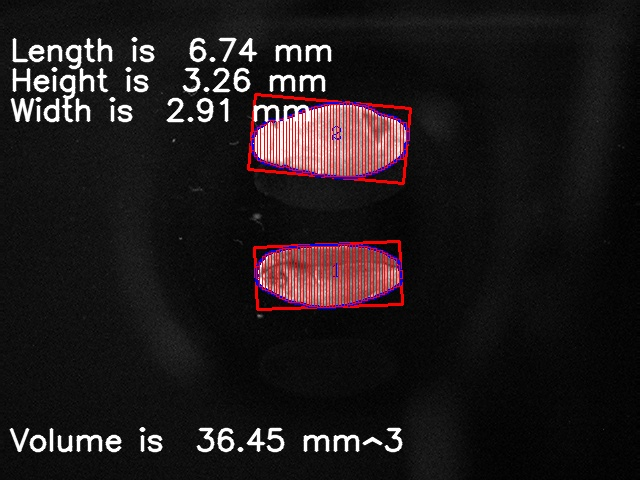
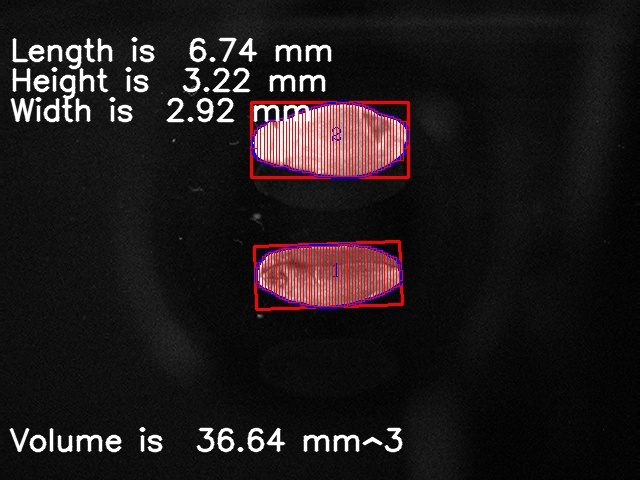
..

diff --git a/volume.py b/volume.py
@@ -2,7 +2,7 @@ import cv2 as cv
 import numpy as np
 import math
 
-delta = 5
+delta = 1
 
 
 ########################################################################
@@ -29,19 +29,34 @@ def drawSepLine(image, box, countour):
 ########################################################################
 # get left and right most point
 ########################################################################
-def getLeftRight(countour):
+def getLeftRight(contour):
     l_p = []
     r_p = []
-    xmin = np.amin(countour, axis=0)[0][0]
-    xmax = np.amax(countour, axis=0)[0][0]
-    for p in countour:
+    xmin = np.amin(contour, axis=0)[0][0]
+    xmax = np.amax(contour, axis=0)[0][0]
+    for p in contour:
         if p[0][0] < xmin + delta:
             l_p.append(p[0][1])
         if p[0][0] > xmax - delta:
             r_p.append(p[0][1])
     l = (xmin, int(sum(l_p) / len(l_p)))
     r = (xmax, int(sum(r_p) / len(r_p)))
-    return (l, r)
+    return l, r
+
+
+def newGetLeftRight(contour_dict):
+    listKey = list(contour_dict)
+    leftKey = listKey[0]
+    leftValue = contour_dict.get(leftKey)
+    left_Y = int(sum(leftValue) / len(leftValue))
+    leftPoint = (leftKey, left_Y)
+
+    rightKey = listKey[-1]
+    rightValue = contour_dict.get(rightKey)
+    right_Y = int(sum(rightValue) / len(rightValue))
+    rightPoint = (rightKey, right_Y)
+
+    return leftPoint, rightPoint
 
 
 ########################################################################
@@ -58,7 +73,7 @@ def getMidPoint(pointl, pointr, x):
 # drawLine function for the small slicing piece
 # based on the number of slice n
 ########################################################################
-def drawLine(image, box, countour, n):
+def drawLine(image, box, contour, n):
     x = int(np.amin(box, axis=0)[0])
     x_right = int(np.amax(box, axis=0)[0])
     # seg = int((np.amax(box, axis=0)[0]- x )/ n)
@@ -67,14 +82,14 @@ def drawLine(image, box, countour, n):
     seg = (x_right - x) / float(n)
     seg2 = seg / 2.0
     x = x + seg2
-    left_point, right_point = drawSepLine(image, box, countour)
+    left_point, right_point = drawSepLine(image, box, contour)
     y_mid = getMidPoint(left_point, right_point, x)
     recent_low = [y_mid]
     recent_high = [y_mid]
     while x <= x_right:
         low = []
         high = []
-        for pair in countour:
+        for pair in contour:
             if x - seg2 <= pair[0][0] <= x + seg2:
                 y_mid = getMidPoint(left_point, right_point, pair[0][0])
                 if pair[0][1] >= y_mid:
@@ -114,10 +129,24 @@ def drawLine(image, box, countour, n):
     return
 
 
+def suitForSlicing(list, midPoint):
+    hasUpper = False
+    hasLower = False
+    for ele in list:
+        if ele < midPoint:
+            hasUpper = True
+        else:
+            hasLower = True
+    if hasUpper is True and hasLower is True:
+        return True
+    else:
+        return False
+
+
 ########################################################################
 # get slicing rectangle box and return as np.array
 ########################################################################
-def slicingRect(box, countour, n):
+def slicingRect(box, contour, n):
     # start_time = time.time()
     rect_arr = []
     x = np.amin(box, axis=0)[0]
@@ -125,14 +154,19 @@ def slicingRect(box, countour, n):
     seg2 = seg / 2.0
     x = x + seg2
     # seg = 11.57601115
-    left_point, right_point = getLeftRight(countour)
+    left_point, right_point = getLeftRight(contour)
     y_mid = getMidPoint(left_point, right_point, x)
     recent_low = [y_mid]
     recent_high = [y_mid]
+
+    # contour = sorted(contour, key=lambda tup: tup[0][0])
+    # print(contour)
+    # print("**")
+
     for i in range(0, n):
         low = []
         high = []
-        for pair in countour:
+        for pair in contour:
             if x - seg2 <= pair[0][0] <= x + seg2:
                 y_mid = getMidPoint(left_point, right_point, pair[0][0])
                 if pair[0][1] >= y_mid:
@@ -151,8 +185,83 @@ def slicingRect(box, countour, n):
             recent_high.append(y_upper)
         rect_arr.append((seg, y_lower - y_upper))
         x = x + seg
+    print(rect_arr)
+    print("$$$$$$")
     return rect_arr
 
+
+
+def newSlicingRect(box, contour):
+    # start_time = time.time()
+    rect_list = []
+
+    contour = sorted(contour, key=lambda tup: tup[0][0])    # sort the contour, from left point to right point
+
+    # initial a dictionary
+    contour_dict = {}   # create dictionary to record the contour point with the same X value, X: [Y1, Y2}...
+    k = contour[0][0][0]
+    v = []
+    v.append(contour[0][0][1])
+    contour_dict[k] = v
+    contour = contour[1:]
+    for ele in contour:
+        key = ele[0][0]
+        value = ele[0][1]
+        if key in contour_dict:
+            listValue = contour_dict.get(key)
+            listValue.append(value)
+        else:
+            newValue = []
+            newValue.append(value)
+            contour_dict[key] = newValue
+
+    left_point, right_point = newGetLeftRight(contour_dict)
+    y_mid = getMidPoint(left_point, right_point, left_point[0])
+    recent_low = [y_mid]
+    recent_high = [y_mid]
+
+    print(left_point)
+    print(right_point)
+    print(y_mid)
+    print("****/")
+
+    startPoint_X = left_point[0]
+    endPoint_X = right_point[0]
+    print(contour_dict)
+    print("****/")
+
+    previousPoint_X = startPoint_X
+    previousPoint_listValue = contour_dict.get(previousPoint_X)
+    if len(previousPoint_listValue) > 1:
+        previousPoint_height = previousPoint_listValue[-1] - previousPoint_listValue[0]
+    else:
+        previousPoint_height = previousPoint_listValue[0]
+
+    current_X = startPoint_X + 1
+    while current_X <= endPoint_X:
+        if current_X in contour_dict:
+            current_listValue = contour_dict.get(current_X)
+            current_mid = getMidPoint(left_point, right_point, current_X)
+            if suitForSlicing(current_listValue, current_mid) or current_X == endPoint_X:
+                rec_width = current_X - previousPoint_X
+                if len(current_listValue) > 1:
+                    rec_height = current_listValue[-1] - current_listValue[0]
+                else:
+                    rec_height = current_listValue[0]
+
+                # ##########
+                diff = rec_height - previousPoint_height
+                previousPoint_height = rec_height
+                rec_height = rec_height - (diff / 2)
+
+                # #############
+
+                rect_list.append((rec_width, rec_height))
+                previousPoint_X = current_X
+        current_X += 1
+    print(rect_list)
+    print("**********")
+    return rect_list
 
 ########################################################################
 # calculate volume using slicing rectangle box
@@ -212,13 +321,13 @@ def procView(HSVlower, HSVupper, img, num_slice, ratio, display, auto=False):
         # draw the min area rect
         box = cv.boxPoints(rect)
         box = np.int0(box)
-        cv.drawContours(img, [box], 0, (0, 0, 255), 2)
+        cv.drawContours(img, [box], 0, (0, 0, 255), 2)  # red
         twoConts.append(cont)
         result.append(rect[1])
 
         count += 1
         cv.putText(img, str(count), (math.ceil(rect[0][0]), math.ceil(rect[0][1])), cv.FONT_HERSHEY_COMPLEX,
-                   0.6, (255, 0, 0), 1)
+                   0.6, (255, 0, 0), 1)  # blue
 
     x, y, w, h = cv.boundingRect(twoConts[0])
     box_mirror = np.array([(x, y), (x, y + h), (x + w, y), (x + w, y + h)])
@@ -241,7 +350,12 @@ def procView(HSVlower, HSVupper, img, num_slice, ratio, display, auto=False):
         width_pixel, length_m_pixel = length_m_pixel, width_pixel
     length_m = length_m_pixel / ratio
     width = width_pixel / ratio
-    rectArray_m = slicingRect(box_mirror, twoConts[0], num_slice)
+    # rectArray_m = slicingRect(box_mirror, twoConts[0], num_slice)
+    rectArray_m = newSlicingRect(box_mirror, twoConts[0])
+
+    #######################
+    # newSlicingRect(box, twoConts[0])
+    ########################
 
     if len(twoConts) > 1:
         length_t = result[1][1]
@@ -251,7 +365,8 @@ def procView(HSVlower, HSVupper, img, num_slice, ratio, display, auto=False):
         r = length_t / length_m_pixel  # length_t / length_m
         length_t = length_t / ratio / r
         height = height / ratio / r
-        rectArray_t = slicingRect(box_target, twoConts[1], num_slice)
+        # rectArray_t = slicingRect(box_target, twoConts[1], num_slice)
+        rectArray_t = newSlicingRect(box_target, twoConts[1])
     else:
         length_t = length_m
         height = width
